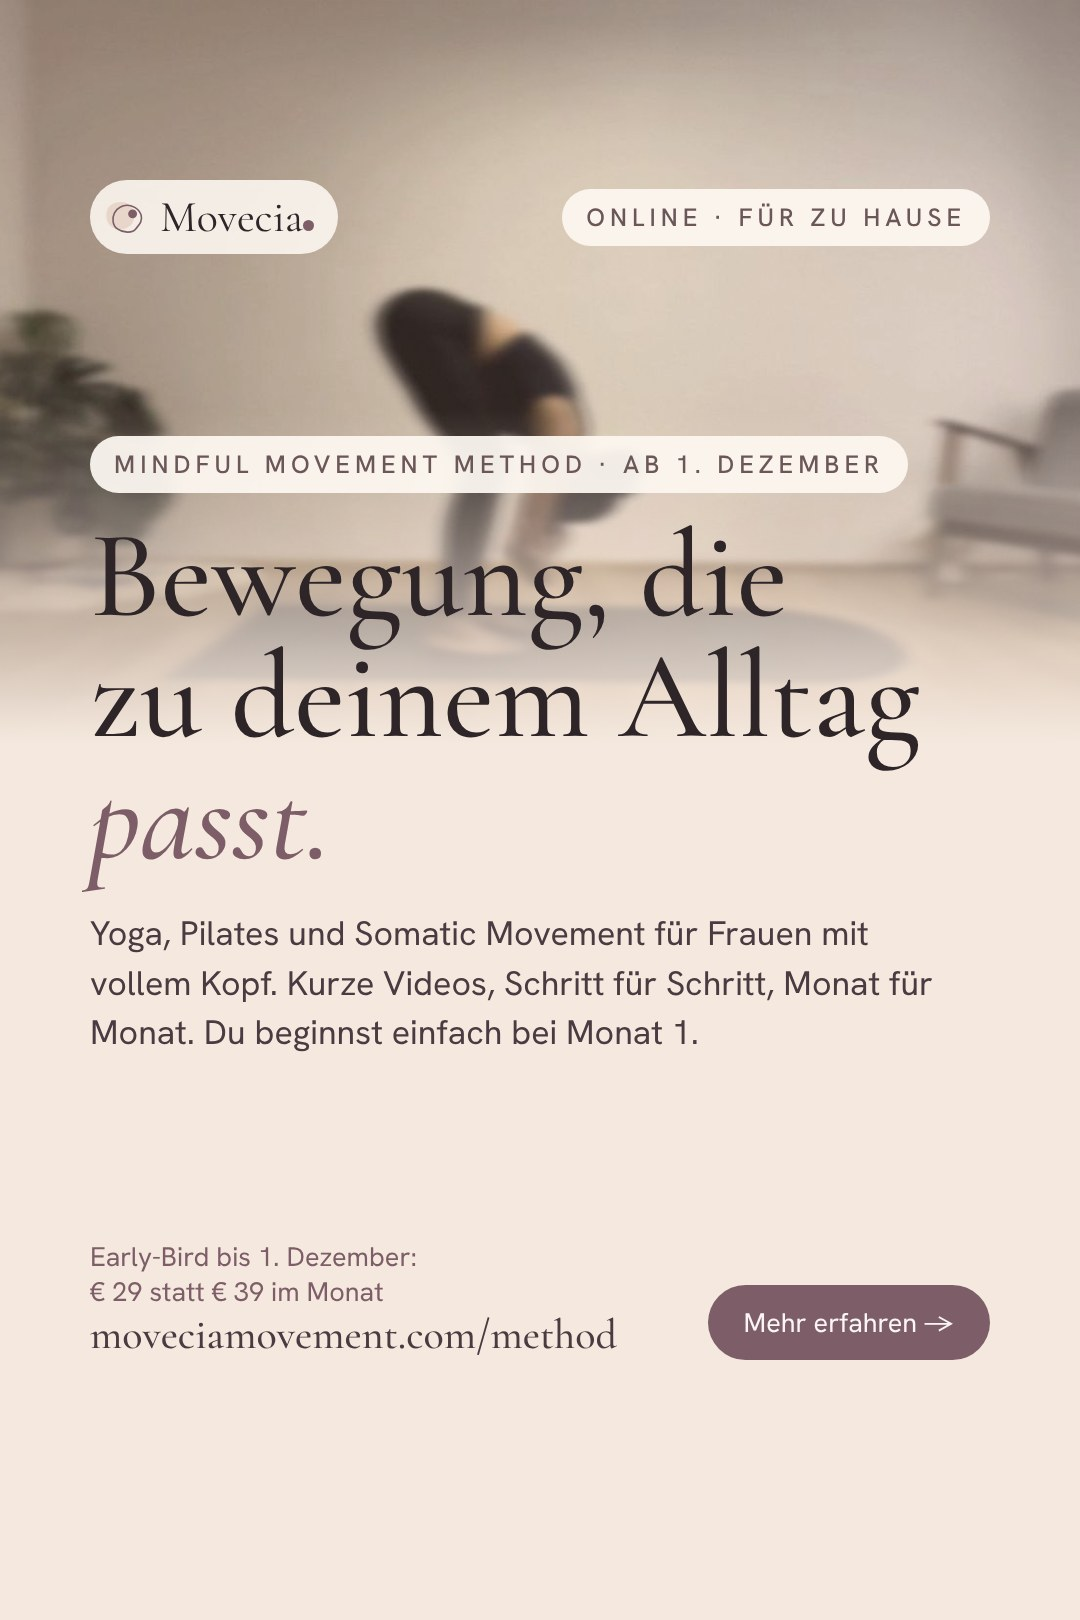
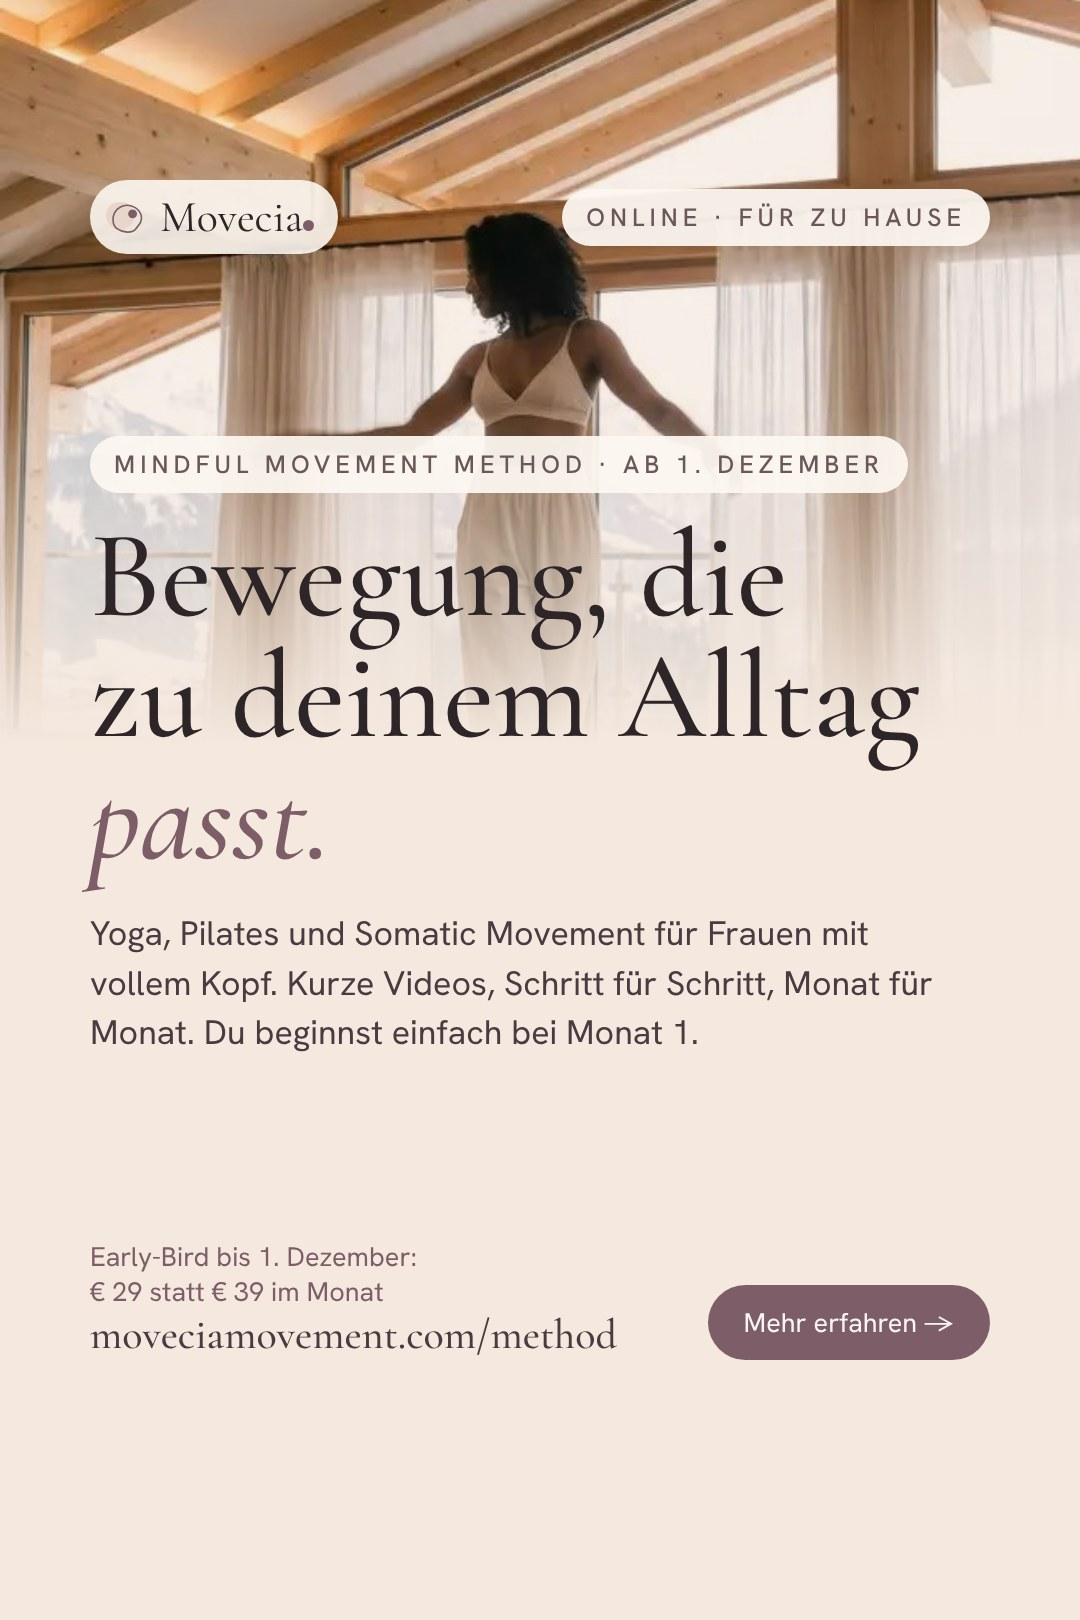
Pinterest Movecia: Pin mit neuem Studio-Foto, Regel nur ev-Fotos, drei neue Yoga-Bilder vorgemerkt
Claude-Session: https://claude.ai/code/session_01NPiwcFoWYWHKtUho8xzHyn

diff --git a/tools/pinterest-movecia/README.md b/tools/pinterest-movecia/README.md
@@ -24,7 +24,14 @@ Yoga für müde Tage · Mental Load & Selbstfürsorge für Mamas · Schwangersch
    Nur echte Übungen mit gängigen Namen (Katze-Kuh, Kindhaltung, Glute Bridge, Box Breathing …).
 3. Pin bauen: JSON wie ein Wochen-Post plus `file` = `img/pins/movecia/<datum>-<thema>.jpg`, lokalen Server starten
    (`FORMA_DATA_DIR=/tmp/x php -S 127.0.0.1:8765`), `python3 tools/pinterest-movecia/make_pin.py pin.json`, Bild ansehen.
-   Fotos nur aus `img/movecia/fotos/` (art-*.jpg bevorzugt). Für natal: `schwanger.jpg`/`art-schwanger.jpg`.
+   Fotos (Vivien, 27.10.2026): IMMER die neuen Bilder `img/movecia/fotos/ev-*.jpg` (heller Studio-Look mit Bergblick),
+   nie mehr art-*.jpg, fold.jpg, reach.jpg. Für natal: `ev-natal.jpg`/`ev-natal-sitzend.jpg`. Bevorzugt Bilder, auf denen
+   das Gesicht nicht erkennbar ist.
+   Neue Yoga-Bilder (27.10.2026, Everygen, Gesicht nicht erkennbar) – noch ins Repo holen, sobald media.viewmax.io erreichbar ist
+   (auf 1080 bzw. max. 1400 px Breite, als `ev-pin-kamel.jpg`, `ev-pin-baum.jpg`, `ev-pin-kind.jpg`):
+   Kamel (kniend, von hinten): https://media.viewmax.io/users/wLzJXedAfqnV6720mvoVrSCNPAyriMzN/generated/ac6a961f-5def-40c9-b7ff-bfb234a77055.jpg
+   Baum (von hinten vor dem Fenster): https://media.viewmax.io/users/wLzJXedAfqnV6720mvoVrSCNPAyriMzN/generated/a035d17e-0b0e-4aeb-9e8e-e9898860ae39.jpg
+   Kindhaltung (mit Decke und Tee): https://media.viewmax.io/users/wLzJXedAfqnV6720mvoVrSCNPAyriMzN/generated/59e65d5e-9fac-476c-8033-f4762a57157b.jpg
 4. Bild committen, auf `main` pushen, warten bis `https://moveciamovement.com/img/pins/movecia/<datei>` erreichbar ist.
 5. In **Chrome** (Claude in Chrome) zum Movecia-Profil wechseln und den Pin anlegen, wie in `tools/pinterest/README.md`
    Schritt 6 beschrieben (im Pin-JSON `"btn": "Mehr erfahren"` setzen; Pin-Builder-URL, richtige Pinnwand, danach Titel setzen). Titel mit Suchbegriffen
